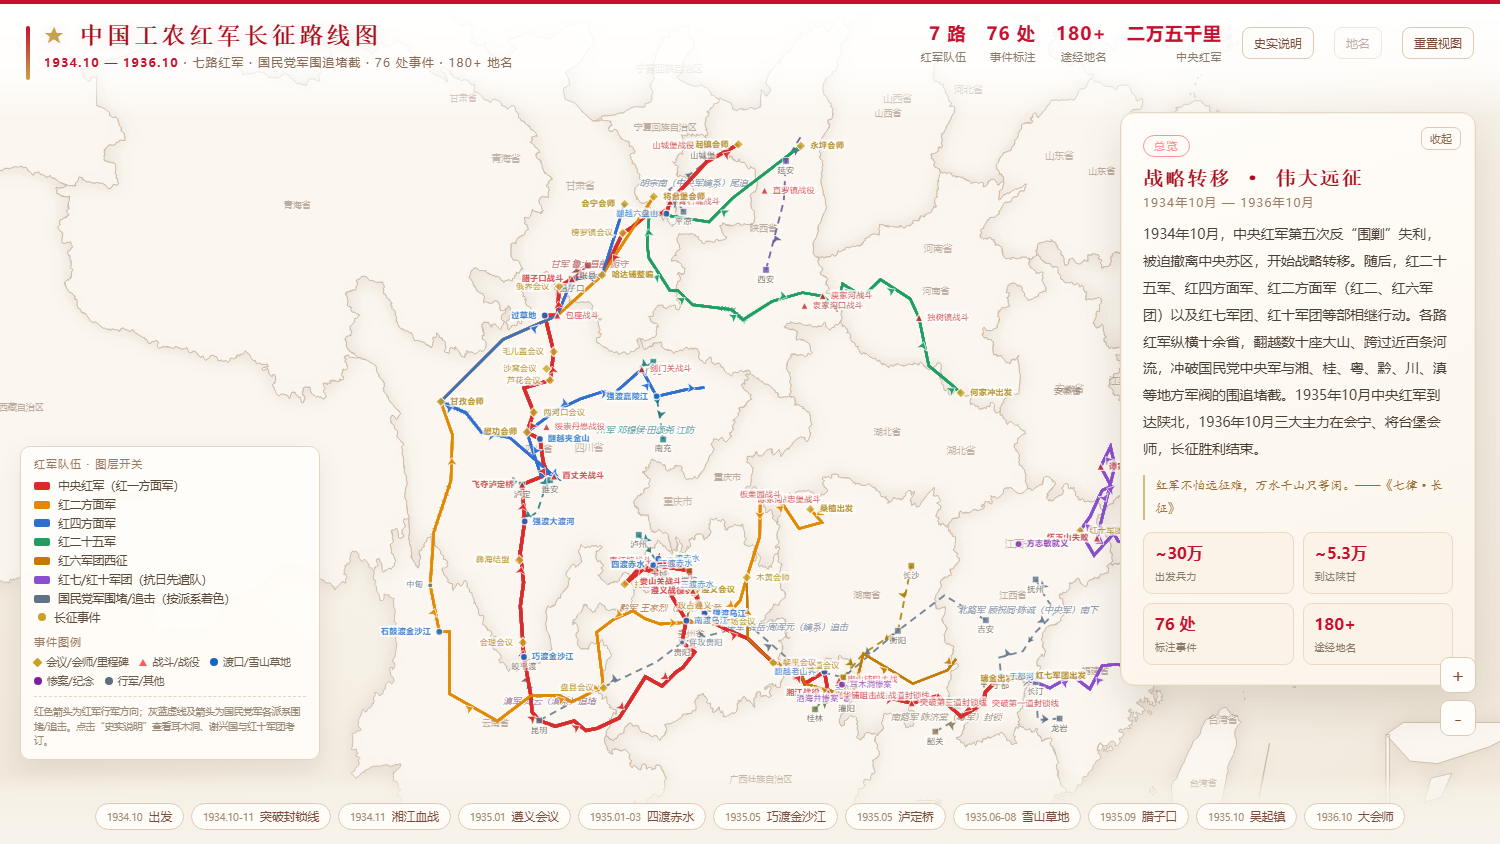
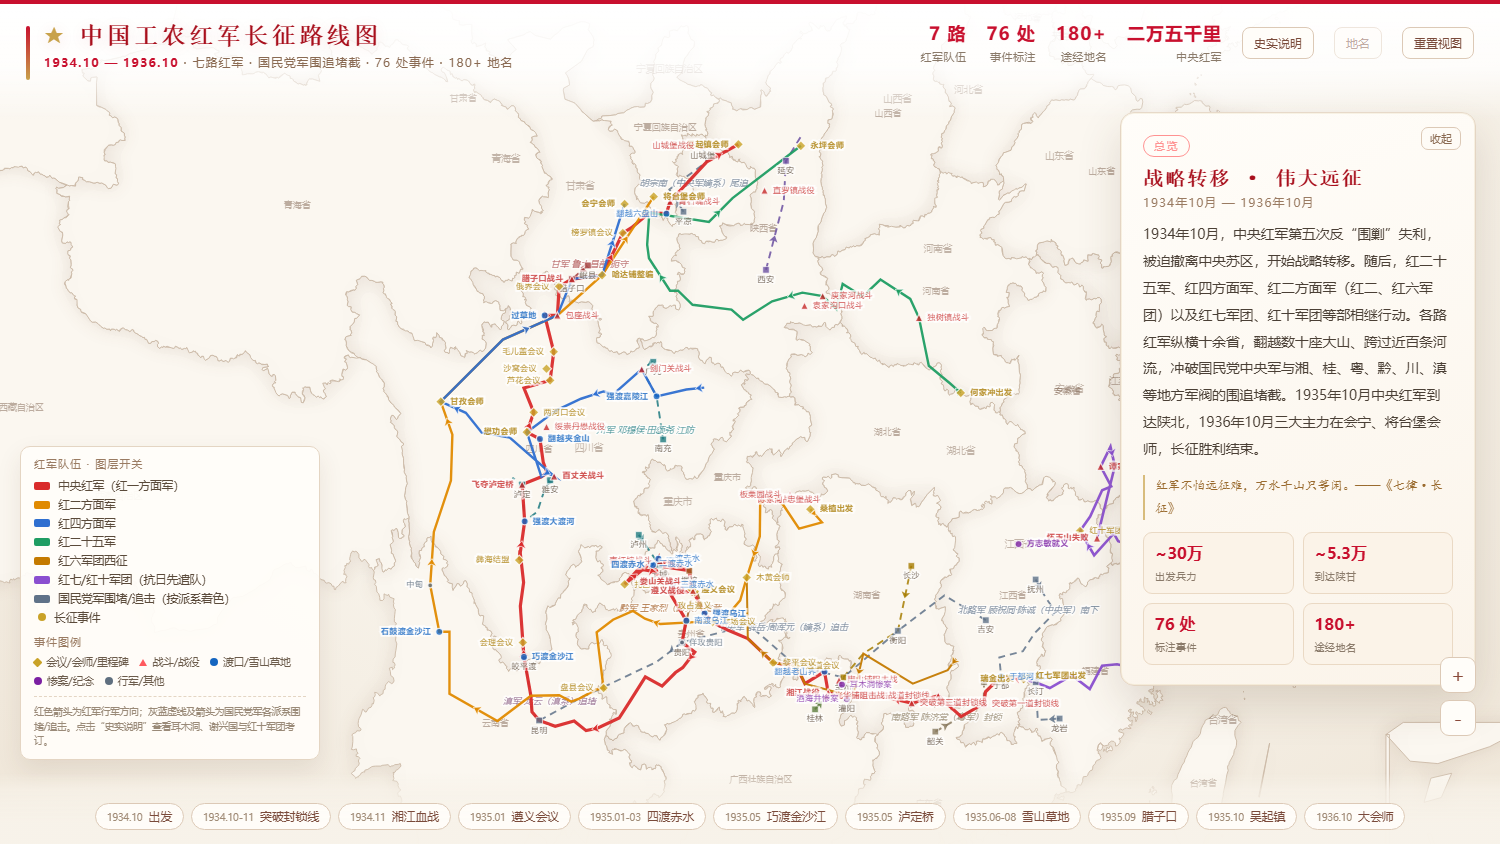
Fix route arrow directions and reduce arrow clutter

diff --git a/index.html b/index.html
@@ -443,25 +443,8 @@
     return {name: k.label.t, value: k.label.v, color: k.color};
   });
 
-  function makeArrows(coords, color, step){
-    var out = [];
-    for (var i = 1; i < coords.length; i += step){
-      var a = coords[i-1], b = coords[i];
-      if (a[0] === b[0] && a[1] === b[1]) continue;
-      var mLng = (a[0] + b[0]) / 2, mLat = (a[1] + b[1]) / 2;
-      var rot = Math.atan2((b[0]-a[0]) * Math.cos(mLat * Math.PI / 180), (b[1]-a[1]) * 0.75) * 180 / Math.PI;
-      out.push({ value: [mLng, mLat], symbolRotate: rot, itemStyle: { color: color } });
-    }
-    return out;
-  }
-
   var RED_DIR = [];
-  [[CENTRAL,C_CENTRAL,3],[ER,C_ER,3],[SI,C_SI,2],[ARMY25,C_25,2],[SIX,C_SIX,2],[TEN,C_TEN,2]].forEach(function(r){
-    RED_DIR = RED_DIR.concat(makeArrows(r[0], r[1], r[2]));
-  });
-
   var KMT_DIR = [];
-  KMT.forEach(function(k){ KMT_DIR = KMT_DIR.concat(makeArrows(k.coords, k.color, 2)); });
 
   var EVENTS = [
     {n:'瑞金出发', v:[116.03,25.89], d:'1934.10.10', t:'m', a:'中央红军', L:1, p:'left',
@@ -870,7 +853,7 @@
         shadowBlur: 0,
         shadowColor: color
       },
-      effect: { show:true, period:period, trailLength:0.18, symbol:'arrow', symbolSize:4.5, color:color },
+      effect: { show:false },
       data: [{ coords: coords, kind:'red', color:color, name:name,
         start:info.start, end:info.end, dates:info.dates, history:info.history }],
       emphasis: { lineStyle: { width: width + 1.4 } }
@@ -936,7 +919,7 @@
       zlevel: 2,
       silent: false,
       lineStyle: { color: k.color, width: 1.9, opacity: 0.85, type: [7,5] },
-      effect: { show: true, period: 8, trailLength: 0, symbol: 'arrow', symbolSize: 5, color: k.color },
+      effect: { show:false },
       data: [{ coords: k.coords, kind:'kmt', name: k.name, desc: k.desc, color: k.color,
         faction: info.faction, start: info.start, end: info.end, dates: info.dates, history: info.history }],
       emphasis: { lineStyle: { width: 2.8, opacity: 1 } }
@@ -1058,25 +1041,27 @@
         labelLayout: { hideOverlap: false, moveOverlap: 'shiftY' }
       },
       {
+        id: 'redArrows',
         name: '红军行军方向',
         type: 'scatter',
         coordinateSystem: 'geo',
         zlevel: 4,
         silent: true,
         symbol: 'arrow',
-        symbolSize: 8,
-        itemStyle: { opacity: 0.95, borderColor: 'rgba(255,255,255,.9)', borderWidth: 0.8 },
+        symbolSize: 7.5,
+        itemStyle: { opacity: 0.9, borderColor: 'rgba(255,255,255,.9)', borderWidth: 0.8 },
         data: RED_DIR
       },
       {
+        id: 'kmtArrows',
         name: '国军行进方向',
         type: 'scatter',
         coordinateSystem: 'geo',
         zlevel: 2,
         silent: true,
         symbol: 'arrow',
-        symbolSize: 7,
-        itemStyle: { opacity: 0.9 },
+        symbolSize: 6.5,
+        itemStyle: { opacity: 0.85 },
         data: KMT_DIR
       },
       {
@@ -1171,6 +1156,43 @@
   };
 
   chart.setOption(option);
+
+  function buildDirArrows(){
+    function make(coords, color, spacing){
+      var out = [];
+      var acc = spacing;
+      for (var i = 1; i < coords.length; i++){
+        var a = coords[i-1], b = coords[i];
+        if (a[0] === b[0] && a[1] === b[1]) continue;
+        var p1 = chart.convertToPixel({ geoIndex: 0 }, a);
+        var p2 = chart.convertToPixel({ geoIndex: 0 }, b);
+        if (!p1 || !p2) continue;
+        var dx = p2[0] - p1[0], dy = p2[1] - p1[1];
+        var len = Math.sqrt(dx*dx + dy*dy);
+        if (len < 0.5) continue;
+        acc += len;
+        if (acc < spacing) continue;
+        acc = 0;
+        out.push({
+          value: [(a[0]+b[0])/2, (a[1]+b[1])/2],
+          symbolRotate: Math.atan2(-dx, -dy) * 180 / Math.PI,
+          itemStyle: { color: color }
+        });
+      }
+      return out;
+    }
+    var red = [];
+    [[CENTRAL,C_CENTRAL],[ER,C_ER],[SI,C_SI],[ARMY25,C_25],[SIX,C_SIX],[TEN,C_TEN]].forEach(function(r){
+      red = red.concat(make(r[0], r[1], 120));
+    });
+    var kmt = [];
+    KMT.forEach(function(k){ kmt = kmt.concat(make(k.coords, k.color, 150)); });
+    chart.setOption({ series: [
+      { id:'redArrows', data: red },
+      { id:'kmtArrows', data: kmt }
+    ]});
+  }
+  buildDirArrows();
 
   var EVT_IDX = 6 + KMT.length;
 
